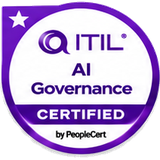
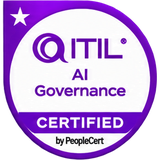
Replace ITIL badges with the new transparent set; cache v=69
Claude-Session: https://claude.ai/code/session_018kgnHRXPcwgYaQevPB5mKf

diff --git a/lesson.html b/lesson.html
@@ -4,7 +4,7 @@
   <link rel="preconnect" href="https://fonts.googleapis.com"><link rel="preconnect" href="https://fonts.gstatic.com" crossorigin><link href="https://fonts.googleapis.com/css2?family=Poppins:wght@400;500;600;700;800&display=swap" rel="stylesheet">
   <meta charset="utf-8">
   <meta name="robots" content="noindex,nofollow">
-  <script src="gate.js?v=68"></script>
+  <script src="gate.js?v=69"></script>
   <meta name="viewport" content="width=device-width, initial-scale=1">
   <title>Lesson · 10-Minute IT Roadmap</title>
   <meta name="description" content="From complete beginner to IT specialist, one 10-minute lesson at a time.">
@@ -12,7 +12,7 @@
   <link rel="manifest" href="manifest.webmanifest">
   <meta name="theme-color" content="#0a0a14">
   <link rel="apple-touch-icon" href="assets/app/apple-touch-icon.png">
-  <link rel="stylesheet" href="style.css?v=68">
+  <link rel="stylesheet" href="style.css?v=69">
 </head>
 <body data-page="lesson">
 
@@ -38,12 +38,12 @@
     <span>Videos on <a href="https://www.youtube.com/" target="_blank" rel="noopener">YouTube</a></span>
   </footer>
 
-  <script src="roadmap.js?v=68"></script>
-  <script src="courses.js?v=68"></script>
-  <script src="icons.js?v=68"></script>
-  <script src="quiz.js?v=68"></script>
-  <script src="celebrate.js?v=68"></script>
-  <script src="lesson.js?v=68"></script>
-  <script src="nav.js?v=68"></script>
+  <script src="roadmap.js?v=69"></script>
+  <script src="courses.js?v=69"></script>
+  <script src="icons.js?v=69"></script>
+  <script src="quiz.js?v=69"></script>
+  <script src="celebrate.js?v=69"></script>
+  <script src="lesson.js?v=69"></script>
+  <script src="nav.js?v=69"></script>
 </body>
 </html>

diff --git a/level.html b/level.html
@@ -4,7 +4,7 @@
   <link rel="preconnect" href="https://fonts.googleapis.com"><link rel="preconnect" href="https://fonts.gstatic.com" crossorigin><link href="https://fonts.googleapis.com/css2?family=Poppins:wght@400;500;600;700;800&display=swap" rel="stylesheet">
   <meta charset="utf-8">
   <meta name="robots" content="noindex,nofollow">
-  <script src="gate.js?v=68"></script>
+  <script src="gate.js?v=69"></script>
   <meta name="viewport" content="width=device-width, initial-scale=1">
   <title>Level · 10-Minute IT Roadmap</title>
   <meta name="description" content="From complete beginner to IT specialist, one 10-minute lesson at a time.">
@@ -12,7 +12,7 @@
   <link rel="manifest" href="manifest.webmanifest">
   <meta name="theme-color" content="#0a0a14">
   <link rel="apple-touch-icon" href="assets/app/apple-touch-icon.png">
-  <link rel="stylesheet" href="style.css?v=68">
+  <link rel="stylesheet" href="style.css?v=69">
 </head>
 <body data-page="level">
 
@@ -48,11 +48,11 @@
     <span>Videos on <a href="https://www.youtube.com/" target="_blank" rel="noopener">YouTube</a></span>
   </footer>
 
-  <script src="roadmap.js?v=68"></script>
-  <script src="courses.js?v=68"></script>
-  <script src="icons.js?v=68"></script>
-  <script src="quiz.js?v=68"></script>
-  <script src="level.js?v=68"></script>
-  <script src="nav.js?v=68"></script>
+  <script src="roadmap.js?v=69"></script>
+  <script src="courses.js?v=69"></script>
+  <script src="icons.js?v=69"></script>
+  <script src="quiz.js?v=69"></script>
+  <script src="level.js?v=69"></script>
+  <script src="nav.js?v=69"></script>
 </body>
 </html>

diff --git a/intermediate.html b/intermediate.html
@@ -4,7 +4,7 @@
   <link rel="preconnect" href="https://fonts.googleapis.com"><link rel="preconnect" href="https://fonts.gstatic.com" crossorigin><link href="https://fonts.googleapis.com/css2?family=Poppins:wght@400;500;600;700;800&display=swap" rel="stylesheet">
   <meta charset="utf-8">
   <meta name="robots" content="noindex,nofollow">
-  <script src="gate.js?v=68"></script>
+  <script src="gate.js?v=69"></script>
   <meta name="viewport" content="width=device-width, initial-scale=1">
   <title>Intermediate · 10-Minute IT Roadmap</title>
   <meta name="description" content="Intermediate IT roadmap — 11 modules from OS internals to cloud computing.">
@@ -12,7 +12,7 @@
   <link rel="manifest" href="manifest.webmanifest">
   <meta name="theme-color" content="#0a0a14">
   <link rel="apple-touch-icon" href="assets/app/apple-touch-icon.png">
-  <link rel="stylesheet" href="style.css?v=68">
+  <link rel="stylesheet" href="style.css?v=69">
   <style>
     /* Intermediate page — blue-teal accent overrides */
     body[data-page="int"] {
@@ -91,10 +91,10 @@
     <span>Videos on <a href="https://www.youtube.com/" target="_blank" rel="noopener">YouTube</a></span>
   </footer>
 
-  <script src="roadmap.js?v=68"></script>
-  <script src="courses.js?v=68"></script>
-  <script src="icons.js?v=68"></script>
-  <script src="int-app.js?v=68"></script>
-  <script src="nav.js?v=68"></script>
+  <script src="roadmap.js?v=69"></script>
+  <script src="courses.js?v=69"></script>
+  <script src="icons.js?v=69"></script>
+  <script src="int-app.js?v=69"></script>
+  <script src="nav.js?v=69"></script>
 </body>
 </html>

diff --git a/index.html b/index.html
@@ -4,7 +4,7 @@
   <link rel="preconnect" href="https://fonts.googleapis.com"><link rel="preconnect" href="https://fonts.gstatic.com" crossorigin><link href="https://fonts.googleapis.com/css2?family=Poppins:wght@400;500;600;700;800&display=swap" rel="stylesheet">
   <meta charset="utf-8">
   <meta name="robots" content="noindex,nofollow">
-  <script src="gate.js?v=68"></script>
+  <script src="gate.js?v=69"></script>
   <meta name="viewport" content="width=device-width, initial-scale=1">
   <title>10-Minute IT Roadmap</title>
   <meta name="description" content="From complete beginner to IT specialist, one 10-minute lesson at a time.">
@@ -12,7 +12,7 @@
   <link rel="manifest" href="manifest.webmanifest">
   <meta name="theme-color" content="#0a0a14">
   <link rel="apple-touch-icon" href="assets/app/apple-touch-icon.png">
-  <link rel="stylesheet" href="style.css?v=68">
+  <link rel="stylesheet" href="style.css?v=69">
 </head>
 <body>
 
@@ -86,12 +86,12 @@
     </div>
   </div>
 
-  <script src="roadmap.js?v=68"></script>
-  <script src="courses.js?v=68"></script>
-  <script src="icons.js?v=68"></script>
-  <script src="quiz.js?v=68"></script>
-  <script src="app.js?v=68"></script>
-  <script src="nav.js?v=68"></script>
-  <script src="plans.js?v=68"></script>
+  <script src="roadmap.js?v=69"></script>
+  <script src="courses.js?v=69"></script>
+  <script src="icons.js?v=69"></script>
+  <script src="quiz.js?v=69"></script>
+  <script src="app.js?v=69"></script>
+  <script src="nav.js?v=69"></script>
+  <script src="plans.js?v=69"></script>
 </body>
 </html>

diff --git a/certs.html b/certs.html
@@ -4,7 +4,7 @@
   <link rel="preconnect" href="https://fonts.googleapis.com"><link rel="preconnect" href="https://fonts.gstatic.com" crossorigin><link href="https://fonts.googleapis.com/css2?family=Poppins:wght@400;500;600;700;800&display=swap" rel="stylesheet">
   <meta charset="utf-8">
   <meta name="robots" content="noindex,nofollow">
-  <script src="gate.js?v=68"></script>
+  <script src="gate.js?v=69"></script>
   <meta name="viewport" content="width=device-width, initial-scale=1">
   <title>Certifications · 10-Minute IT Roadmap</title>
   <meta name="description" content="From complete beginner to IT specialist, one 10-minute lesson at a time.">
@@ -12,7 +12,7 @@
   <link rel="manifest" href="manifest.webmanifest">
   <meta name="theme-color" content="#0a0a14">
   <link rel="apple-touch-icon" href="assets/app/apple-touch-icon.png">
-  <link rel="stylesheet" href="style.css?v=68">
+  <link rel="stylesheet" href="style.css?v=69">
 </head>
 <body data-page="certs">
 
@@ -52,10 +52,10 @@
     <span>Videos on <a href="https://www.youtube.com/" target="_blank" rel="noopener">YouTube</a></span>
   </footer>
 
-  <script src="roadmap.js?v=68"></script>
-  <script src="courses.js?v=68"></script>
-  <script src="icons.js?v=68"></script>
-  <script src="certs.js?v=68"></script>
-  <script src="nav.js?v=68"></script>
+  <script src="roadmap.js?v=69"></script>
+  <script src="courses.js?v=69"></script>
+  <script src="icons.js?v=69"></script>
+  <script src="certs.js?v=69"></script>
+  <script src="nav.js?v=69"></script>
 </body>
 </html>

diff --git a/tools.html b/tools.html
@@ -4,7 +4,7 @@
   <link rel="preconnect" href="https://fonts.googleapis.com"><link rel="preconnect" href="https://fonts.gstatic.com" crossorigin><link href="https://fonts.googleapis.com/css2?family=Poppins:wght@400;500;600;700;800&display=swap" rel="stylesheet">
   <meta charset="utf-8">
   <meta name="robots" content="noindex,nofollow">
-  <script src="gate.js?v=68"></script>
+  <script src="gate.js?v=69"></script>
   <meta name="viewport" content="width=device-width, initial-scale=1">
   <title>IT Tools · 10-Minute IT Roadmap</title>
   <meta name="description" content="From complete beginner to IT specialist, one 10-minute lesson at a time.">
@@ -12,7 +12,7 @@
   <link rel="manifest" href="manifest.webmanifest">
   <meta name="theme-color" content="#0a0a14">
   <link rel="apple-touch-icon" href="assets/app/apple-touch-icon.png">
-  <link rel="stylesheet" href="style.css?v=68">
+  <link rel="stylesheet" href="style.css?v=69">
 </head>
 <body data-page="tools">
 
@@ -49,9 +49,9 @@
     <span>Videos on <a href="https://www.youtube.com/" target="_blank" rel="noopener">YouTube</a></span>
   </footer>
 
-  <script src="roadmap.js?v=68"></script>
-  <script src="courses.js?v=68"></script>
-  <script src="tools-page.js?v=68"></script>
-  <script src="nav.js?v=68"></script>
+  <script src="roadmap.js?v=69"></script>
+  <script src="courses.js?v=69"></script>
+  <script src="tools-page.js?v=69"></script>
+  <script src="nav.js?v=69"></script>
 </body>
 </html>

diff --git a/course.html b/course.html
@@ -4,7 +4,7 @@
   <link rel="preconnect" href="https://fonts.googleapis.com"><link rel="preconnect" href="https://fonts.gstatic.com" crossorigin><link href="https://fonts.googleapis.com/css2?family=Poppins:wght@400;500;600;700;800&display=swap" rel="stylesheet">
   <meta charset="utf-8">
   <meta name="robots" content="noindex,nofollow">
-  <script src="gate.js?v=68"></script>
+  <script src="gate.js?v=69"></script>
   <meta name="viewport" content="width=device-width, initial-scale=1">
   <title>ITIL · 10-Minute IT Roadmap</title>
   <meta name="description" content="From complete beginner to IT specialist, one 10-minute lesson at a time.">
@@ -12,7 +12,7 @@
   <link rel="manifest" href="manifest.webmanifest">
   <meta name="theme-color" content="#0a0a14">
   <link rel="apple-touch-icon" href="assets/app/apple-touch-icon.png">
-  <link rel="stylesheet" href="style.css?v=68">
+  <link rel="stylesheet" href="style.css?v=69">
 </head>
 <body data-page="course">
 
@@ -38,9 +38,9 @@
     <span>Videos on <a href="https://www.youtube.com/" target="_blank" rel="noopener">YouTube</a></span>
   </footer>
 
-  <script src="roadmap.js?v=68"></script>
-  <script src="courses.js?v=68"></script>
-  <script src="course-page.js?v=68"></script>
-  <script src="nav.js?v=68"></script>
+  <script src="roadmap.js?v=69"></script>
+  <script src="courses.js?v=69"></script>
+  <script src="course-page.js?v=69"></script>
+  <script src="nav.js?v=69"></script>
 </body>
 </html>

diff --git a/tool.html b/tool.html
@@ -4,7 +4,7 @@
   <link rel="preconnect" href="https://fonts.googleapis.com"><link rel="preconnect" href="https://fonts.gstatic.com" crossorigin><link href="https://fonts.googleapis.com/css2?family=Poppins:wght@400;500;600;700;800&display=swap" rel="stylesheet">
   <meta charset="utf-8">
   <meta name="robots" content="noindex,nofollow">
-  <script src="gate.js?v=68"></script>
+  <script src="gate.js?v=69"></script>
   <meta name="viewport" content="width=device-width, initial-scale=1">
   <title>Tool · 10-Minute IT Roadmap</title>
   <meta name="description" content="From complete beginner to IT specialist, one 10-minute lesson at a time.">
@@ -12,7 +12,7 @@
   <link rel="manifest" href="manifest.webmanifest">
   <meta name="theme-color" content="#0a0a14">
   <link rel="apple-touch-icon" href="assets/app/apple-touch-icon.png">
-  <link rel="stylesheet" href="style.css?v=68">
+  <link rel="stylesheet" href="style.css?v=69">
 </head>
 <body data-page="tool">
 
@@ -38,9 +38,9 @@
     <span>Videos on <a href="https://www.youtube.com/" target="_blank" rel="noopener">YouTube</a></span>
   </footer>
 
-  <script src="roadmap.js?v=68"></script>
-  <script src="courses.js?v=68"></script>
-  <script src="tool-page.js?v=68"></script>
-  <script src="nav.js?v=68"></script>
+  <script src="roadmap.js?v=69"></script>
+  <script src="courses.js?v=69"></script>
+  <script src="tool-page.js?v=69"></script>
+  <script src="nav.js?v=69"></script>
 </body>
 </html>

diff --git a/spec.html b/spec.html
@@ -4,7 +4,7 @@
   <link rel="preconnect" href="https://fonts.googleapis.com"><link rel="preconnect" href="https://fonts.gstatic.com" crossorigin><link href="https://fonts.googleapis.com/css2?family=Poppins:wght@400;500;600;700;800&display=swap" rel="stylesheet">
   <meta charset="utf-8">
   <meta name="robots" content="noindex,nofollow">
-  <script src="gate.js?v=68"></script>
+  <script src="gate.js?v=69"></script>
   <meta name="viewport" content="width=device-width, initial-scale=1">
   <title>Specialization · 10-Minute IT Roadmap</title>
   <meta name="description" content="From complete beginner to IT specialist, one 10-minute lesson at a time.">
@@ -12,7 +12,7 @@
   <link rel="manifest" href="manifest.webmanifest">
   <meta name="theme-color" content="#0a0a14">
   <link rel="apple-touch-icon" href="assets/app/apple-touch-icon.png">
-  <link rel="stylesheet" href="style.css?v=68">
+  <link rel="stylesheet" href="style.css?v=69">
 </head>
 <body data-page="spec">
 
@@ -45,9 +45,9 @@
     <span>Videos on <a href="https://www.youtube.com/" target="_blank" rel="noopener">YouTube</a></span>
   </footer>
 
-  <script src="roadmap.js?v=68"></script>
-  <script src="icons.js?v=68"></script>
-  <script src="spec.js?v=68"></script>
-  <script src="nav.js?v=68"></script>
+  <script src="roadmap.js?v=69"></script>
+  <script src="icons.js?v=69"></script>
+  <script src="spec.js?v=69"></script>
+  <script src="nav.js?v=69"></script>
 </body>
 </html>

diff --git a/plans.html b/plans.html
@@ -4,7 +4,7 @@
   <link rel="preconnect" href="https://fonts.googleapis.com"><link rel="preconnect" href="https://fonts.gstatic.com" crossorigin><link href="https://fonts.googleapis.com/css2?family=Poppins:wght@400;500;600;700;800&display=swap" rel="stylesheet">
   <meta charset="utf-8">
   <meta name="robots" content="noindex,nofollow">
-  <script src="gate.js?v=68"></script>
+  <script src="gate.js?v=69"></script>
   <meta name="viewport" content="width=device-width, initial-scale=1">
   <title>Plans · 10-Minute IT Roadmap</title>
   <meta name="description" content="From complete beginner to IT specialist, one 10-minute lesson at a time.">
@@ -12,7 +12,7 @@
   <link rel="manifest" href="manifest.webmanifest">
   <meta name="theme-color" content="#0a0a14">
   <link rel="apple-touch-icon" href="assets/app/apple-touch-icon.png">
-  <link rel="stylesheet" href="style.css?v=68">
+  <link rel="stylesheet" href="style.css?v=69">
 </head>
 <body data-page="plans">
 
@@ -40,9 +40,9 @@
     <span>Videos on <a href="https://www.youtube.com/" target="_blank" rel="noopener">YouTube</a></span>
   </footer>
 
-  <script src="roadmap.js?v=68"></script>
-  <script src="icons.js?v=68"></script>
-  <script src="plans.js?v=68"></script>
-  <script src="nav.js?v=68"></script>
+  <script src="roadmap.js?v=69"></script>
+  <script src="icons.js?v=69"></script>
+  <script src="plans.js?v=69"></script>
+  <script src="nav.js?v=69"></script>
 </body>
 </html>
